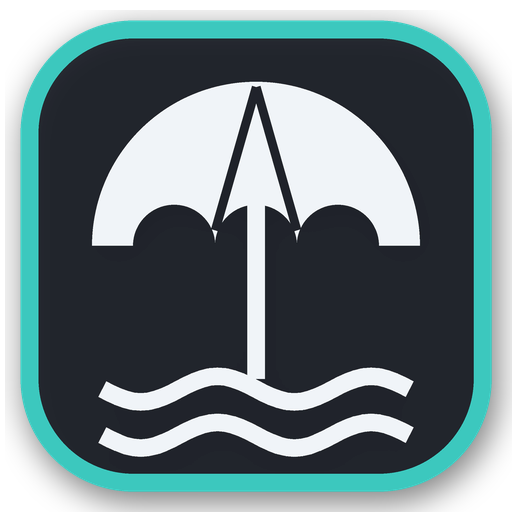
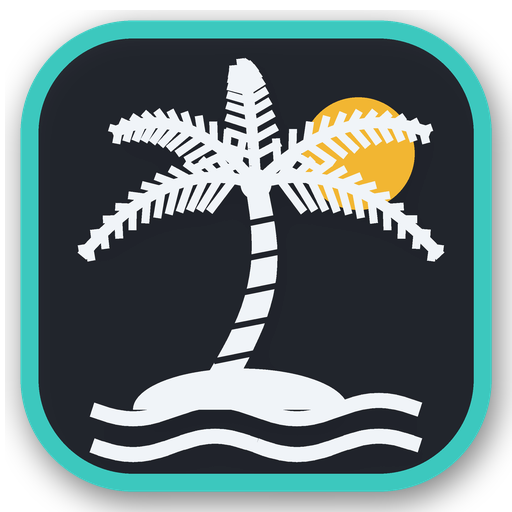
docs: redraw the summer (palm tree) and New Year's Eve (fireworks) badges
Claude-Session: https://claude.ai/code/session_01TPtXe8YEjXWuXNmFgmXabW

Changed region(s): [[0.1562, 0.0938, 0.875, 0.9062]]

diff --git a/tools/variant_badges.py b/tools/variant_badges.py
@@ -168,31 +168,80 @@ def _lantern(d, s):
     for x in (0.45, 0.50, 0.55):                       # tassel
         d.line([(s*0.5, s*0.75), (s*x, s*0.88)], fill=GOLD, width=int(s*0.022))
 
+def _sparkle(d, x, y, r, fill):
+    # four-pointed star
+    k = r*0.28
+    d.polygon([(x, y-r), (x+k, y-k), (x+r, y), (x+k, y+k), (x, y+r), (x-k, y+k), (x-r, y), (x-k, y-k)], fill=fill)
+
+def _burst(d, s, cx, cy, R, n, w):
+    # rays of alternating length with a dot at the end, and an inner ring of dots
+    for i in range(n):
+        a = 2*math.pi*i/n + math.pi/n
+        L = R if i % 2 == 0 else R*0.72
+        x0, y0 = s*(cx + math.cos(a)*R*0.30), s*(cy + math.sin(a)*R*0.30)
+        x1, y1 = s*(cx + math.cos(a)*(L-0.035)), s*(cy + math.sin(a)*(L-0.035))
+        d.line([(x0, y0), (x1, y1)], fill=WHITE, width=int(w))
+        ex, ey, er = s*(cx + math.cos(a)*L), s*(cy + math.sin(a)*L), w*0.8
+        d.ellipse([ex-er, ey-er, ex+er, ey+er], fill=WHITE)
+    for i in range(n//2):
+        a = 2*math.pi*i/(n//2)
+        ex, ey, er = s*(cx + math.cos(a)*R*0.17), s*(cy + math.sin(a)*R*0.17), w*0.55
+        d.ellipse([ex-er, ey-er, ex+er, ey+er], fill=WHITE)
+
 def _fireworks(d, s):
-    # a big burst and a small one: rays with dots at the ends
-    for cx, cy, R, n in ((0.42, 0.44, 0.27, 12), (0.73, 0.70, 0.13, 8)):
-        w = s*0.03 if R > 0.2 else s*0.024
-        for i in range(n):
-            a = 2*math.pi*i/n
-            x0, y0 = s*(cx + math.cos(a)*R*0.35), s*(cy + math.sin(a)*R*0.35)
-            x1, y1 = s*(cx + math.cos(a)*R*0.82), s*(cy + math.sin(a)*R*0.82)
-            d.line([(x0, y0), (x1, y1)], fill=WHITE, width=int(w))
-            ex, ey, er = s*(cx + math.cos(a)*R), s*(cy + math.sin(a)*R), w*0.75
-            d.ellipse([ex-er, ey-er, ex+er, ey+er], fill=WHITE)
-        r = w*0.9; d.ellipse([s*cx-r, s*cy-r, s*cx+r, s*cy+r], fill=WHITE)
+    GOLD = (242, 182, 50, 255)
+    _burst(d, s, 0.42, 0.40, 0.25, 16, s*0.026)
+    _burst(d, s, 0.74, 0.66, 0.13, 12, s*0.02)
+    # the rising trail of the big rocket, fading into dots
+    for i, (y, r) in enumerate(((0.86, 0.010), (0.80, 0.012), (0.74, 0.014), (0.68, 0.016))):
+        x = 0.38 + 0.01*i
+        d.ellipse([s*(x-r), s*(y-r), s*(x+r), s*(y+r)], fill=WHITE)
+    for x, y, r in ((0.76, 0.24, 0.05), (0.18, 0.70, 0.04), (0.60, 0.86, 0.035)):
+        _sparkle(d, s*x, s*y, s*r, GOLD)
+
+def _frond(d, s, x0, y0, x1, y1, lift):
+    # a feathery palm frond: an arched rib from the crown (x0, y0) to the tip (x1, y1),
+    # lifted by `lift` in the middle, with leaflets hanging from both sides
+    cx, cy = (x0+x1)/2, min(y0, y1) - lift
+    pts = []
+    for i in range(25):
+        t = i/24
+        pts.append(((1-t)**2*x0 + 2*(1-t)*t*cx + t*t*x1, (1-t)**2*y0 + 2*(1-t)*t*cy + t*t*y1))
+    d.line([(s*x, s*y) for x, y in pts], fill=WHITE, width=int(s*0.022), joint='curve')
+    for i in range(3, 24, 2):
+        t = i/24; (xa, ya), (xb, yb) = pts[i-1], pts[i+1]
+        tx, ty = xb-xa, yb-ya; tl = math.hypot(tx, ty); tx, ty = tx/tl, ty/tl
+        L = 0.075*(1 - 0.75*t)
+        for side in (1, -1):
+            nx, ny = -ty*side, tx*side
+            ex, ey = pts[i][0] + (nx*0.8 + tx*0.6)*L, pts[i][1] + (ny*0.8 + ty*0.6)*L + 0.25*L
+            d.line([(s*pts[i][0], s*pts[i][1]), (s*ex, s*ey)], fill=WHITE, width=int(s*0.016))
 
 def _beach(d, s):
-    # beach umbrella over two waves
-    T = (0, 0, 0, 0)
-    d.pieslice([s*0.18, s*0.16, s*0.82, s*0.80], 180, 360, fill=WHITE)
-    for x in (0.34, 0.50, 0.66):                       # scalloped edge
-        r = s*0.08; d.ellipse([s*x-r, s*0.48-r, s*x+r, s*0.48+r], fill=T)
-    for x in (0.42, 0.58):                             # panel seams
-        d.line([(s*0.5, s*0.17), (s*x, s*0.45)], fill=T, width=int(s*0.018))
-    d.line([(s*0.5, s*0.40), (s*0.5, s*0.74)], fill=WHITE, width=int(s*0.035))
-    w = int(s*0.035)
-    for y in (0.76, 0.85):
-        pts = [(s*(0.20 + 0.6*i/40), s*(y + 0.025*math.sin(i/40*4*math.pi))) for i in range(41)]
+    # palm tree on a small island, the sun behind it and the sea in front
+    T = (0, 0, 0, 0); GOLD = (242, 182, 50, 255)
+    r = s*0.11; d.ellipse([s*0.70-r, s*0.30-r, s*0.70+r, s*0.30+r], fill=GOLD)
+    # trunk: a slightly curved band, thinner at the top, with notches
+    pts_l, pts_r = [], []
+    for i in range(21):
+        t = i/20
+        x = 0.42 + 0.08*t + 0.05*math.sin(math.pi*t); y = 0.76 - 0.40*t
+        w = 0.033 - 0.012*t
+        pts_l.append((s*(x-w), s*y)); pts_r.append((s*(x+w), s*y))
+    d.polygon(pts_l + pts_r[::-1], fill=WHITE)
+    for i in range(1, 6):
+        t = i/6; x = 0.42 + 0.08*t + 0.05*math.sin(math.pi*t); y = 0.76 - 0.40*t
+        d.line([(s*(x-0.04), s*(y+0.012)), (s*(x+0.04), s*(y-0.004))], fill=T, width=int(s*0.012))
+    # fronds from the crown, drooping at the sides
+    cx, cy = 0.50, 0.36
+    for x1, y1, lift in ((0.16, 0.50, 0.06), (0.22, 0.26, 0.07), (0.84, 0.26, 0.07), (0.86, 0.50, 0.06), (0.47, 0.13, 0.0)):
+        _frond(d, s, cx, cy, x1, y1, lift)
+    r = s*0.03; d.ellipse([s*cx-r, s*cy-r, s*cx+r, s*cy+r], fill=WHITE)
+    # island and two waves
+    d.chord([s*0.26, s*0.72, s*0.68, s*0.88], 180, 360, fill=WHITE)
+    w = int(s*0.03)
+    for y in (0.80, 0.87):
+        pts = [(s*(0.18 + 0.64*i/40), s*(y + 0.018*math.sin(i/40*4*math.pi))) for i in range(41)]
         d.line(pts, fill=WHITE, width=w, joint='curve')
 
 GLYPHS = {'sun': _sun, 'rain': _rain, 'snow': _snow, 'moon': _moon, 'moon_rain': _moon_rain, 'tree': _tree, 'pumpkin': _pumpkin, 'egg': _egg, 'tree_moon': _tree_moon, 'lantern': _lantern, 'fireworks': _fireworks, 'beach': _beach}

diff --git a/docs/variant-badges.md b/docs/variant-badges.md
@@ -15,7 +15,7 @@ Small icons in the top-right corner of a Workshop cover image. They show at a gl
 | <img src="./images/badges/badge_easter_512.png" width="48"> | `easter` | Easter edition | green |
 | <img src="./images/badges/badge_lunar_new_year_512.png" width="48"> | `lunar_new_year` | Lunar New Year edition | gold |
 | <img src="./images/badges/badge_new_year_512.png" width="48"> | `new_year` | New Year's Eve edition | magenta |
-| <img src="./images/badges/badge_summer_512.png" width="48"> | `summer` | Summer / beach edition | turquoise |
+| <img src="./images/badges/badge_summer_512.png" width="48"> | `summer` | Summer / beach edition (palm tree on an island) | turquoise |
 
 ## Rules
 
